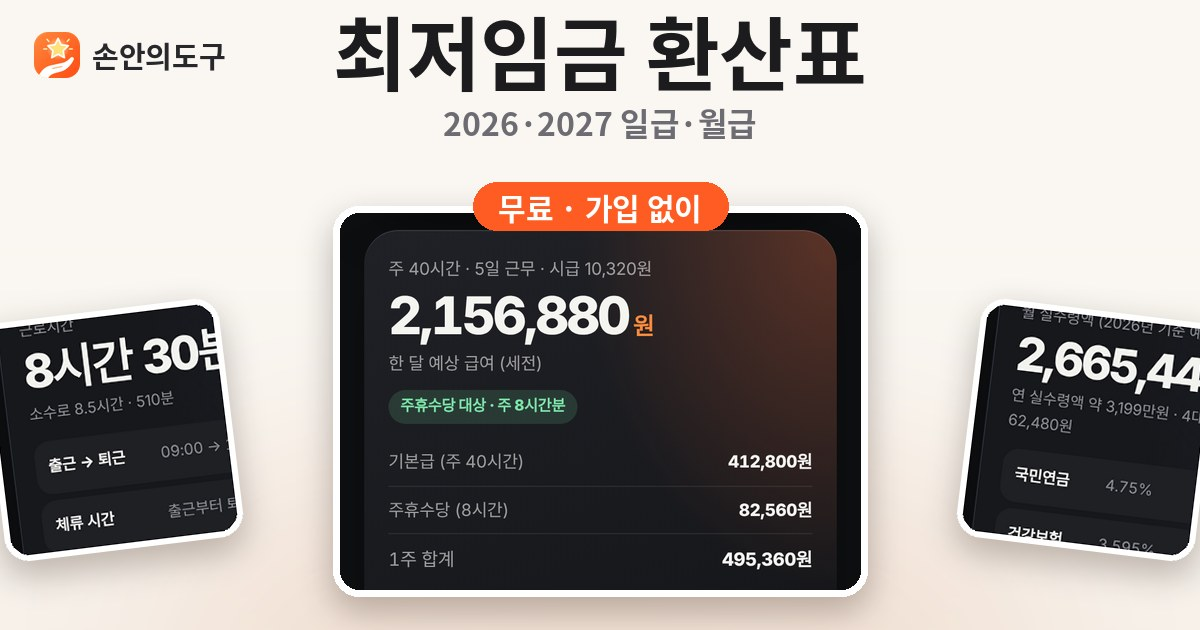
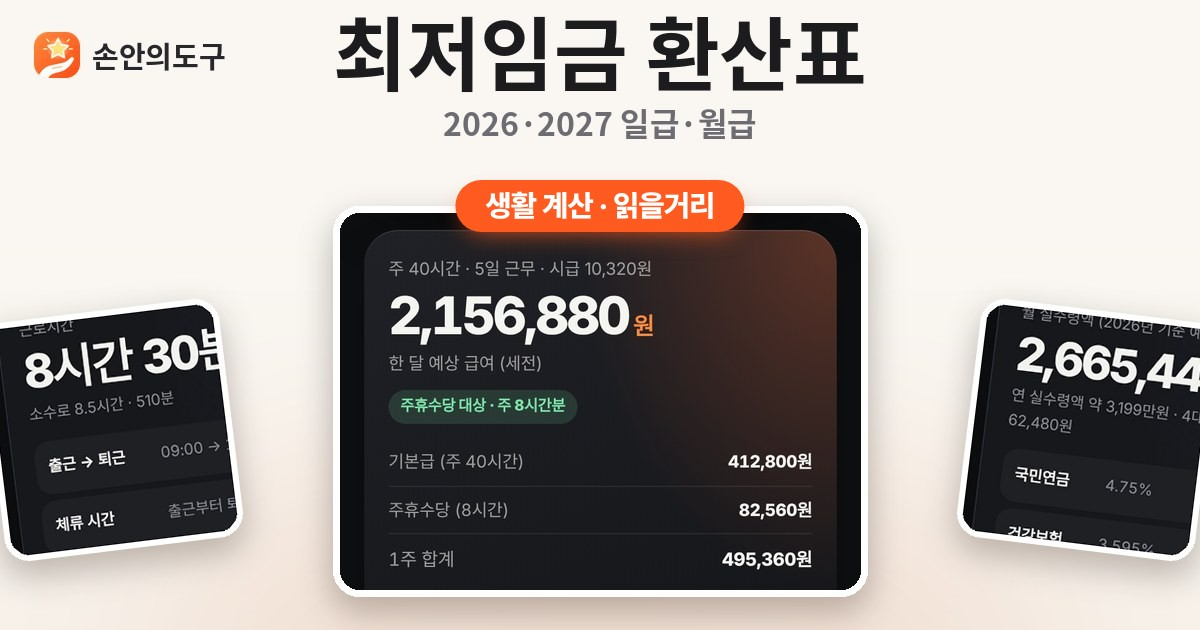
블로그 대표 이미지 배지를 '분류 · 읽을거리'로 교체
- 블로그 글 23편의 og 이미지에서 '무료 · 가입 없이' 배지를 글 분류 배지로 덮어 그림
  (생활 계산·알바 상식·모임 놀이·생활 도구·세금 상식·전통 놀이)
- 각 글의 og:image, JSON-LD image의 ?v=를 20261117로 올림
- .github/OG_GUIDE.md에 og 이미지 규칙(도구/블로그 배지 구분 포함) 기록

Claude-Session: https://claude.ai/code/session_014M4UVE4QdxrQAqy8tYAeAT

Changed region(s): [[0.37, 0.2714, 0.6475, 0.3921]]

diff --git a/blog/minimum-wage-table/index.html b/blog/minimum-wage-table/index.html
@@ -15,7 +15,7 @@
 <meta name="theme-color" content="#F4F4F1">
 <meta property="og:type" content="article">
 <meta property="og:url" content="https://sonandogu.com/blog/minimum-wage-table/">
-<meta property="og:image" content="https://sonandogu.com/assets/og-minimum-wage-table-post.jpg?v=20261116">
+<meta property="og:image" content="https://sonandogu.com/assets/og-minimum-wage-table-post.jpg?v=20261117">
 <meta property="og:image:width" content="1200"><meta property="og:image:height" content="630">
 <meta property="og:image:alt" content="최저임금 하루치와 한 달치, 환산표로 한 번에">
 <meta name="twitter:card" content="summary_large_image">
@@ -27,7 +27,7 @@
 <link rel="canonical" href="https://sonandogu.com/blog/minimum-wage-table/">
 <link rel="preconnect" href="https://cdn.jsdelivr.net" crossorigin>
 <link rel="stylesheet" href="https://cdn.jsdelivr.net/gh/orioncactus/pretendard@v1.3.9/dist/web/variable/pretendardvariable-dynamic-subset.min.css">
-<script type="application/ld+json">{"@context": "https://schema.org", "@type": "Article", "headline": "최저임금 하루치와 한 달치, 환산표로 한 번에", "datePublished": "2026-11-09", "dateModified": "2026-11-16", "author": {"@type": "Organization", "name": "손안의도구"}, "publisher": {"@type": "Organization", "name": "손안의도구"}, "mainEntityOfPage": "https://sonandogu.com/blog/minimum-wage-table/", "image": "https://sonandogu.com/assets/og-minimum-wage-table-post.jpg?v=20261116"}</script>
+<script type="application/ld+json">{"@context": "https://schema.org", "@type": "Article", "headline": "최저임금 하루치와 한 달치, 환산표로 한 번에", "datePublished": "2026-11-09", "dateModified": "2026-11-16", "author": {"@type": "Organization", "name": "손안의도구"}, "publisher": {"@type": "Organization", "name": "손안의도구"}, "mainEntityOfPage": "https://sonandogu.com/blog/minimum-wage-table/", "image": "https://sonandogu.com/assets/og-minimum-wage-table-post.jpg?v=20261117"}</script>
 <style>:root{
   --bg:#F4F4F1; --surface:#FFFFFF; --ink:#141518; --muted:#6B6D73; --faint:#A3A5AA;
   --line:rgba(20,21,24,.08); --field:#F4F4F1; --orange:#FF5A1F; --orange2:#FF8A3D;

diff --git a/blog/work-hours-calc/index.html b/blog/work-hours-calc/index.html
@@ -15,7 +15,7 @@
 <meta name="theme-color" content="#F4F4F1">
 <meta property="og:type" content="article">
 <meta property="og:url" content="https://sonandogu.com/blog/work-hours-calc/">
-<meta property="og:image" content="https://sonandogu.com/assets/og-work-hours-calc-post.jpg?v=20261116">
+<meta property="og:image" content="https://sonandogu.com/assets/og-work-hours-calc-post.jpg?v=20261117">
 <meta property="og:image:width" content="1200"><meta property="og:image:height" content="630">
 <meta property="og:image:alt" content="근무시간 계산, 휴게시간과 자정 넘김에서 틀려요">
 <meta name="twitter:card" content="summary_large_image">
@@ -27,7 +27,7 @@
 <link rel="canonical" href="https://sonandogu.com/blog/work-hours-calc/">
 <link rel="preconnect" href="https://cdn.jsdelivr.net" crossorigin>
 <link rel="stylesheet" href="https://cdn.jsdelivr.net/gh/orioncactus/pretendard@v1.3.9/dist/web/variable/pretendardvariable-dynamic-subset.min.css">
-<script type="application/ld+json">{"@context": "https://schema.org", "@type": "Article", "headline": "근무시간 계산, 휴게시간과 자정 넘김에서 틀려요", "datePublished": "2026-11-12", "dateModified": "2026-11-16", "author": {"@type": "Organization", "name": "손안의도구"}, "publisher": {"@type": "Organization", "name": "손안의도구"}, "mainEntityOfPage": "https://sonandogu.com/blog/work-hours-calc/", "image": "https://sonandogu.com/assets/og-work-hours-calc-post.jpg?v=20261116"}</script>
+<script type="application/ld+json">{"@context": "https://schema.org", "@type": "Article", "headline": "근무시간 계산, 휴게시간과 자정 넘김에서 틀려요", "datePublished": "2026-11-12", "dateModified": "2026-11-16", "author": {"@type": "Organization", "name": "손안의도구"}, "publisher": {"@type": "Organization", "name": "손안의도구"}, "mainEntityOfPage": "https://sonandogu.com/blog/work-hours-calc/", "image": "https://sonandogu.com/assets/og-work-hours-calc-post.jpg?v=20261117"}</script>
 <style>:root{
   --bg:#F4F4F1; --surface:#FFFFFF; --ink:#141518; --muted:#6B6D73; --faint:#A3A5AA;
   --line:rgba(20,21,24,.08); --field:#F4F4F1; --orange:#FF5A1F; --orange2:#FF8A3D;

diff --git a/blog/severance-pay/index.html b/blog/severance-pay/index.html
@@ -15,7 +15,7 @@
 <meta name="theme-color" content="#F4F4F1">
 <meta property="og:type" content="article">
 <meta property="og:url" content="https://sonandogu.com/blog/severance-pay/">
-<meta property="og:image" content="https://sonandogu.com/assets/og-severance-pay-post.jpg?v=20261116">
+<meta property="og:image" content="https://sonandogu.com/assets/og-severance-pay-post.jpg?v=20261117">
 <meta property="og:image:width" content="1200"><meta property="og:image:height" content="630">
 <meta property="og:image:alt" content="월급 300만 원으로 3년 일하면 퇴직금은 얼마일까">
 <meta name="twitter:card" content="summary_large_image">
@@ -27,7 +27,7 @@
 <link rel="canonical" href="https://sonandogu.com/blog/severance-pay/">
 <link rel="preconnect" href="https://cdn.jsdelivr.net" crossorigin>
 <link rel="stylesheet" href="https://cdn.jsdelivr.net/gh/orioncactus/pretendard@v1.3.9/dist/web/variable/pretendardvariable-dynamic-subset.min.css">
-<script type="application/ld+json">{"@context": "https://schema.org", "@type": "Article", "headline": "월급 300만 원으로 3년 일하면 퇴직금은 얼마일까", "datePublished": "2026-11-08", "dateModified": "2026-11-16", "author": {"@type": "Organization", "name": "손안의도구"}, "publisher": {"@type": "Organization", "name": "손안의도구"}, "mainEntityOfPage": "https://sonandogu.com/blog/severance-pay/", "image": "https://sonandogu.com/assets/og-severance-pay-post.jpg?v=20261116"}</script>
+<script type="application/ld+json">{"@context": "https://schema.org", "@type": "Article", "headline": "월급 300만 원으로 3년 일하면 퇴직금은 얼마일까", "datePublished": "2026-11-08", "dateModified": "2026-11-16", "author": {"@type": "Organization", "name": "손안의도구"}, "publisher": {"@type": "Organization", "name": "손안의도구"}, "mainEntityOfPage": "https://sonandogu.com/blog/severance-pay/", "image": "https://sonandogu.com/assets/og-severance-pay-post.jpg?v=20261117"}</script>
 <style>:root{
   --bg:#F4F4F1; --surface:#FFFFFF; --ink:#141518; --muted:#6B6D73; --faint:#A3A5AA;
   --line:rgba(20,21,24,.08); --field:#F4F4F1; --orange:#FF5A1F; --orange2:#FF8A3D;

diff --git a/blog/resume-char-count/index.html b/blog/resume-char-count/index.html
@@ -15,7 +15,7 @@
 <meta name="theme-color" content="#F4F4F1">
 <meta property="og:type" content="article">
 <meta property="og:url" content="https://sonandogu.com/blog/resume-char-count/">
-<meta property="og:image" content="https://sonandogu.com/assets/og-resume-char-count-post.jpg?v=20261116">
+<meta property="og:image" content="https://sonandogu.com/assets/og-resume-char-count-post.jpg?v=20261117">
 <meta property="og:image:width" content="1200"><meta property="og:image:height" content="630">
 <meta property="og:image:alt" content="자소서 글자수, 입력창에서만 넘친 이유">
 <meta name="twitter:card" content="summary_large_image">
@@ -27,7 +27,7 @@
 <link rel="canonical" href="https://sonandogu.com/blog/resume-char-count/">
 <link rel="preconnect" href="https://cdn.jsdelivr.net" crossorigin>
 <link rel="stylesheet" href="https://cdn.jsdelivr.net/gh/orioncactus/pretendard@v1.3.9/dist/web/variable/pretendardvariable-dynamic-subset.min.css">
-<script type="application/ld+json">{"@context": "https://schema.org", "@type": "Article", "headline": "자소서 글자수, 입력창에서만 넘친 이유", "datePublished": "2026-11-08", "dateModified": "2026-11-16", "author": {"@type": "Organization", "name": "손안의도구"}, "publisher": {"@type": "Organization", "name": "손안의도구"}, "mainEntityOfPage": "https://sonandogu.com/blog/resume-char-count/", "image": "https://sonandogu.com/assets/og-resume-char-count-post.jpg?v=20261116"}</script>
+<script type="application/ld+json">{"@context": "https://schema.org", "@type": "Article", "headline": "자소서 글자수, 입력창에서만 넘친 이유", "datePublished": "2026-11-08", "dateModified": "2026-11-16", "author": {"@type": "Organization", "name": "손안의도구"}, "publisher": {"@type": "Organization", "name": "손안의도구"}, "mainEntityOfPage": "https://sonandogu.com/blog/resume-char-count/", "image": "https://sonandogu.com/assets/og-resume-char-count-post.jpg?v=20261117"}</script>
 <style>:root{
   --bg:#F4F4F1; --surface:#FFFFFF; --ink:#141518; --muted:#6B6D73; --faint:#A3A5AA;
   --line:rgba(20,21,24,.08); --field:#F4F4F1; --orange:#FF5A1F; --orange2:#FF8A3D;

diff --git a/blog/manito-rules/index.html b/blog/manito-rules/index.html
@@ -15,7 +15,7 @@
 <meta name="theme-color" content="#F4F4F1">
 <meta property="og:type" content="article">
 <meta property="og:url" content="https://sonandogu.com/blog/manito-rules/">
-<meta property="og:image" content="https://sonandogu.com/assets/og-manito-rules-post.jpg?v=20261116">
+<meta property="og:image" content="https://sonandogu.com/assets/og-manito-rules-post.jpg?v=20261117">
 <meta property="og:image:width" content="1200"><meta property="og:image:height" content="630">
 <meta property="og:image:alt" content="마니또, 종이 제비로 뽑으면 왜 자꾸 다시 뽑을까">
 <meta name="twitter:card" content="summary_large_image">
@@ -27,7 +27,7 @@
 <link rel="canonical" href="https://sonandogu.com/blog/manito-rules/">
 <link rel="preconnect" href="https://cdn.jsdelivr.net" crossorigin>
 <link rel="stylesheet" href="https://cdn.jsdelivr.net/gh/orioncactus/pretendard@v1.3.9/dist/web/variable/pretendardvariable-dynamic-subset.min.css">
-<script type="application/ld+json">{"@context": "https://schema.org", "@type": "Article", "headline": "마니또, 종이 제비로 뽑으면 왜 자꾸 다시 뽑을까", "datePublished": "2026-11-09", "dateModified": "2026-11-09", "author": {"@type": "Organization", "name": "손안의도구"}, "publisher": {"@type": "Organization", "name": "손안의도구"}, "mainEntityOfPage": "https://sonandogu.com/blog/manito-rules/", "image": "https://sonandogu.com/assets/og-manito-rules-post.jpg?v=20261116"}</script>
+<script type="application/ld+json">{"@context": "https://schema.org", "@type": "Article", "headline": "마니또, 종이 제비로 뽑으면 왜 자꾸 다시 뽑을까", "datePublished": "2026-11-09", "dateModified": "2026-11-09", "author": {"@type": "Organization", "name": "손안의도구"}, "publisher": {"@type": "Organization", "name": "손안의도구"}, "mainEntityOfPage": "https://sonandogu.com/blog/manito-rules/", "image": "https://sonandogu.com/assets/og-manito-rules-post.jpg?v=20261117"}</script>
 <style>:root{
   --bg:#F4F4F1; --surface:#FFFFFF; --ink:#141518; --muted:#6B6D73; --faint:#A3A5AA;
   --line:rgba(20,21,24,.08); --field:#F4F4F1; --orange:#FF5A1F; --orange2:#FF8A3D;

diff --git a/blog/annual-leave/index.html b/blog/annual-leave/index.html
@@ -15,7 +15,7 @@
 <meta name="theme-color" content="#F4F4F1">
 <meta property="og:type" content="article">
 <meta property="og:url" content="https://sonandogu.com/blog/annual-leave/">
-<meta property="og:image" content="https://sonandogu.com/assets/og-annual-leave-post.jpg?v=20261116">
+<meta property="og:image" content="https://sonandogu.com/assets/og-annual-leave-post.jpg?v=20261117">
 <meta property="og:image:width" content="1200"><meta property="og:image:height" content="630">
 <meta property="og:image:alt" content="연차 15일은 언제 생길까, 월차 11일부터 25일까지">
 <meta name="twitter:card" content="summary_large_image">
@@ -27,7 +27,7 @@
 <link rel="canonical" href="https://sonandogu.com/blog/annual-leave/">
 <link rel="preconnect" href="https://cdn.jsdelivr.net" crossorigin>
 <link rel="stylesheet" href="https://cdn.jsdelivr.net/gh/orioncactus/pretendard@v1.3.9/dist/web/variable/pretendardvariable-dynamic-subset.min.css">
-<script type="application/ld+json">{"@context": "https://schema.org", "@type": "Article", "headline": "연차 15일은 언제 생길까, 월차 11일부터 25일까지", "datePublished": "2026-11-09", "dateModified": "2026-11-16", "author": {"@type": "Organization", "name": "손안의도구"}, "publisher": {"@type": "Organization", "name": "손안의도구"}, "mainEntityOfPage": "https://sonandogu.com/blog/annual-leave/", "image": "https://sonandogu.com/assets/og-annual-leave-post.jpg?v=20261116"}</script>
+<script type="application/ld+json">{"@context": "https://schema.org", "@type": "Article", "headline": "연차 15일은 언제 생길까, 월차 11일부터 25일까지", "datePublished": "2026-11-09", "dateModified": "2026-11-16", "author": {"@type": "Organization", "name": "손안의도구"}, "publisher": {"@type": "Organization", "name": "손안의도구"}, "mainEntityOfPage": "https://sonandogu.com/blog/annual-leave/", "image": "https://sonandogu.com/assets/og-annual-leave-post.jpg?v=20261117"}</script>
 <style>:root{
   --bg:#F4F4F1; --surface:#FFFFFF; --ink:#141518; --muted:#6B6D73; --faint:#A3A5AA;
   --line:rgba(20,21,24,.08); --field:#F4F4F1; --orange:#FF5A1F; --orange2:#FF8A3D;

diff --git a/blog/salary-take-home/index.html b/blog/salary-take-home/index.html
@@ -15,7 +15,7 @@
 <meta name="theme-color" content="#F4F4F1">
 <meta property="og:type" content="article">
 <meta property="og:url" content="https://sonandogu.com/blog/salary-take-home/">
-<meta property="og:image" content="https://sonandogu.com/assets/og-salary-take-home-post.jpg?v=20261116">
+<meta property="og:image" content="https://sonandogu.com/assets/og-salary-take-home-post.jpg?v=20261117">
 <meta property="og:image:width" content="1200"><meta property="og:image:height" content="630">
 <meta property="og:image:alt" content="연봉 3,600만 원, 통장에는 얼마가 찍힐까">
 <meta name="twitter:card" content="summary_large_image">
@@ -27,7 +27,7 @@
 <link rel="canonical" href="https://sonandogu.com/blog/salary-take-home/">
 <link rel="preconnect" href="https://cdn.jsdelivr.net" crossorigin>
 <link rel="stylesheet" href="https://cdn.jsdelivr.net/gh/orioncactus/pretendard@v1.3.9/dist/web/variable/pretendardvariable-dynamic-subset.min.css">
-<script type="application/ld+json">{"@context": "https://schema.org", "@type": "Article", "headline": "연봉 3,600만 원, 통장에는 얼마가 찍힐까", "datePublished": "2026-11-08", "dateModified": "2026-11-16", "author": {"@type": "Organization", "name": "손안의도구"}, "publisher": {"@type": "Organization", "name": "손안의도구"}, "mainEntityOfPage": "https://sonandogu.com/blog/salary-take-home/", "image": "https://sonandogu.com/assets/og-salary-take-home-post.jpg?v=20261116"}</script>
+<script type="application/ld+json">{"@context": "https://schema.org", "@type": "Article", "headline": "연봉 3,600만 원, 통장에는 얼마가 찍힐까", "datePublished": "2026-11-08", "dateModified": "2026-11-16", "author": {"@type": "Organization", "name": "손안의도구"}, "publisher": {"@type": "Organization", "name": "손안의도구"}, "mainEntityOfPage": "https://sonandogu.com/blog/salary-take-home/", "image": "https://sonandogu.com/assets/og-salary-take-home-post.jpg?v=20261117"}</script>
 <style>:root{
   --bg:#F4F4F1; --surface:#FFFFFF; --ink:#141518; --muted:#6B6D73; --faint:#A3A5AA;
   --line:rgba(20,21,24,.08); --field:#F4F4F1; --orange:#FF5A1F; --orange2:#FF8A3D;

diff --git a/blog/under-15-hours/index.html b/blog/under-15-hours/index.html
@@ -15,7 +15,7 @@
 <meta name="theme-color" content="#F4F4F1">
 <meta property="og:type" content="article">
 <meta property="og:url" content="https://sonandogu.com/blog/under-15-hours/">
-<meta property="og:image" content="https://sonandogu.com/assets/og-under-15-hours-post.jpg?v=20261116">
+<meta property="og:image" content="https://sonandogu.com/assets/og-under-15-hours-post.jpg?v=20261117">
 <meta property="og:image:width" content="1200"><meta property="og:image:height" content="630">
 <meta property="og:image:alt" content="알바 퇴직금과 연차, 주 15시간이 가르는 것">
 <meta name="twitter:card" content="summary_large_image">
@@ -27,7 +27,7 @@
 <link rel="canonical" href="https://sonandogu.com/blog/under-15-hours/">
 <link rel="preconnect" href="https://cdn.jsdelivr.net" crossorigin>
 <link rel="stylesheet" href="https://cdn.jsdelivr.net/gh/orioncactus/pretendard@v1.3.9/dist/web/variable/pretendardvariable-dynamic-subset.min.css">
-<script type="application/ld+json">{"@context": "https://schema.org", "@type": "Article", "headline": "알바 퇴직금과 연차, 주 15시간이 가르는 것", "datePublished": "2026-11-09", "dateModified": "2026-11-16", "author": {"@type": "Organization", "name": "손안의도구"}, "publisher": {"@type": "Organization", "name": "손안의도구"}, "mainEntityOfPage": "https://sonandogu.com/blog/under-15-hours/", "image": "https://sonandogu.com/assets/og-under-15-hours-post.jpg?v=20261116"}</script>
+<script type="application/ld+json">{"@context": "https://schema.org", "@type": "Article", "headline": "알바 퇴직금과 연차, 주 15시간이 가르는 것", "datePublished": "2026-11-09", "dateModified": "2026-11-16", "author": {"@type": "Organization", "name": "손안의도구"}, "publisher": {"@type": "Organization", "name": "손안의도구"}, "mainEntityOfPage": "https://sonandogu.com/blog/under-15-hours/", "image": "https://sonandogu.com/assets/og-under-15-hours-post.jpg?v=20261117"}</script>
 <style>:root{
   --bg:#F4F4F1; --surface:#FFFFFF; --ink:#141518; --muted:#6B6D73; --faint:#A3A5AA;
   --line:rgba(20,21,24,.08); --field:#F4F4F1; --orange:#FF5A1F; --orange2:#FF8A3D;

diff --git a/blog/team-name-ideas/index.html b/blog/team-name-ideas/index.html
@@ -15,7 +15,7 @@
 <meta name="theme-color" content="#F4F4F1">
 <meta property="og:type" content="article">
 <meta property="og:url" content="https://sonandogu.com/blog/team-name-ideas/">
-<meta property="og:image" content="https://sonandogu.com/assets/og-team-name-ideas-post.jpg?v=20261116">
+<meta property="og:image" content="https://sonandogu.com/assets/og-team-name-ideas-post.jpg?v=20261117">
 <meta property="og:image:width" content="1200"><meta property="og:image:height" content="630">
 <meta property="og:image:alt" content="조 이름, 뭐로 할지 모르겠다면 공식부터">
 <meta name="twitter:card" content="summary_large_image">
@@ -27,7 +27,7 @@
 <link rel="canonical" href="https://sonandogu.com/blog/team-name-ideas/">
 <link rel="preconnect" href="https://cdn.jsdelivr.net" crossorigin>
 <link rel="stylesheet" href="https://cdn.jsdelivr.net/gh/orioncactus/pretendard@v1.3.9/dist/web/variable/pretendardvariable-dynamic-subset.min.css">
-<script type="application/ld+json">{"@context": "https://schema.org", "@type": "Article", "headline": "조 이름, 뭐로 할지 모르겠다면 공식부터", "datePublished": "2026-11-09", "dateModified": "2026-11-16", "author": {"@type": "Organization", "name": "손안의도구"}, "publisher": {"@type": "Organization", "name": "손안의도구"}, "mainEntityOfPage": "https://sonandogu.com/blog/team-name-ideas/", "image": "https://sonandogu.com/assets/og-team-name-ideas-post.jpg?v=20261116"}</script>
+<script type="application/ld+json">{"@context": "https://schema.org", "@type": "Article", "headline": "조 이름, 뭐로 할지 모르겠다면 공식부터", "datePublished": "2026-11-09", "dateModified": "2026-11-16", "author": {"@type": "Organization", "name": "손안의도구"}, "publisher": {"@type": "Organization", "name": "손안의도구"}, "mainEntityOfPage": "https://sonandogu.com/blog/team-name-ideas/", "image": "https://sonandogu.com/assets/og-team-name-ideas-post.jpg?v=20261117"}</script>
 <style>:root{
   --bg:#F4F4F1; --surface:#FFFFFF; --ink:#141518; --muted:#6B6D73; --faint:#A3A5AA;
   --line:rgba(20,21,24,.08); --field:#F4F4F1; --orange:#FF5A1F; --orange2:#FF8A3D;

diff --git a/blog/changes-2027/index.html b/blog/changes-2027/index.html
@@ -15,7 +15,7 @@
 <meta name="theme-color" content="#F4F4F1">
 <meta property="og:type" content="article">
 <meta property="og:url" content="https://sonandogu.com/blog/changes-2027/">
-<meta property="og:image" content="https://sonandogu.com/assets/og-changes-2027-post.jpg?v=20261116">
+<meta property="og:image" content="https://sonandogu.com/assets/og-changes-2027-post.jpg?v=20261117">
 <meta property="og:image:width" content="1200"><meta property="og:image:height" content="630">
 <meta property="og:image:alt" content="2027년 달라지는 것, 월급과 달력부터 바뀌어요">
 <meta name="twitter:card" content="summary_large_image">
@@ -27,7 +27,7 @@
 <link rel="canonical" href="https://sonandogu.com/blog/changes-2027/">
 <link rel="preconnect" href="https://cdn.jsdelivr.net" crossorigin>
 <link rel="stylesheet" href="https://cdn.jsdelivr.net/gh/orioncactus/pretendard@v1.3.9/dist/web/variable/pretendardvariable-dynamic-subset.min.css">
-<script type="application/ld+json">{"@context": "https://schema.org", "@type": "Article", "headline": "2027년 달라지는 것, 월급과 달력부터 바뀌어요", "datePublished": "2026-11-16", "dateModified": "2026-11-16", "author": {"@type": "Organization", "name": "손안의도구"}, "publisher": {"@type": "Organization", "name": "손안의도구"}, "mainEntityOfPage": "https://sonandogu.com/blog/changes-2027/", "image": "https://sonandogu.com/assets/og-changes-2027-post.jpg?v=20261116"}</script>
+<script type="application/ld+json">{"@context": "https://schema.org", "@type": "Article", "headline": "2027년 달라지는 것, 월급과 달력부터 바뀌어요", "datePublished": "2026-11-16", "dateModified": "2026-11-16", "author": {"@type": "Organization", "name": "손안의도구"}, "publisher": {"@type": "Organization", "name": "손안의도구"}, "mainEntityOfPage": "https://sonandogu.com/blog/changes-2027/", "image": "https://sonandogu.com/assets/og-changes-2027-post.jpg?v=20261117"}</script>
 <style>:root{
   --bg:#F4F4F1; --surface:#FFFFFF; --ink:#141518; --muted:#6B6D73; --faint:#A3A5AA;
   --line:rgba(20,21,24,.08); --field:#F4F4F1; --orange:#FF5A1F; --orange2:#FF8A3D;

diff --git a/blog/yut-rules/index.html b/blog/yut-rules/index.html
@@ -15,7 +15,7 @@
 <meta name="theme-color" content="#F4F4F1">
 <meta property="og:type" content="article">
 <meta property="og:url" content="https://sonandogu.com/blog/yut-rules/">
-<meta property="og:image" content="https://sonandogu.com/assets/og-yut-post.jpg?v=20261116">
+<meta property="og:image" content="https://sonandogu.com/assets/og-yut-post.jpg?v=20261117">
 <meta property="og:image:width" content="1200"><meta property="og:image:height" content="630">
 <meta property="og:image:alt" content="윷놀이 하다 싸우는 이유, 집집마다 규칙이 달라서예요">
 <meta name="twitter:card" content="summary_large_image">
@@ -27,7 +27,7 @@
 <link rel="canonical" href="https://sonandogu.com/blog/yut-rules/">
 <link rel="preconnect" href="https://cdn.jsdelivr.net" crossorigin>
 <link rel="stylesheet" href="https://cdn.jsdelivr.net/gh/orioncactus/pretendard@v1.3.9/dist/web/variable/pretendardvariable-dynamic-subset.min.css">
-<script type="application/ld+json">{"@context": "https://schema.org", "@type": "Article", "headline": "윷놀이 하다 싸우는 이유, 집집마다 규칙이 달라서예요", "datePublished": "2026-11-02", "author": {"@type": "Organization", "name": "손안의도구"}, "publisher": {"@type": "Organization", "name": "손안의도구"}, "mainEntityOfPage": "https://sonandogu.com/blog/yut-rules/", "image": "https://sonandogu.com/assets/og-yut-post.jpg?v=20261116", "dateModified": "2026-11-16"}</script>
+<script type="application/ld+json">{"@context": "https://schema.org", "@type": "Article", "headline": "윷놀이 하다 싸우는 이유, 집집마다 규칙이 달라서예요", "datePublished": "2026-11-02", "author": {"@type": "Organization", "name": "손안의도구"}, "publisher": {"@type": "Organization", "name": "손안의도구"}, "mainEntityOfPage": "https://sonandogu.com/blog/yut-rules/", "image": "https://sonandogu.com/assets/og-yut-post.jpg?v=20261117", "dateModified": "2026-11-16"}</script>
 <style>:root{
   --bg:#F4F4F1; --surface:#FFFFFF; --ink:#141518; --muted:#6B6D73; --faint:#A3A5AA;
   --line:rgba(20,21,24,.08); --field:#F4F4F1; --orange:#FF5A1F; --orange2:#FF8A3D;

diff --git a/blog/holiday-2027/index.html b/blog/holiday-2027/index.html
@@ -15,7 +15,7 @@
 <meta name="theme-color" content="#F4F4F1">
 <meta property="og:type" content="article">
 <meta property="og:url" content="https://sonandogu.com/blog/holiday-2027/">
-<meta property="og:image" content="https://sonandogu.com/assets/og-holiday-2027-post.jpg?v=20261116">
+<meta property="og:image" content="https://sonandogu.com/assets/og-holiday-2027-post.jpg?v=20261117">
 <meta property="og:image:width" content="1200"><meta property="og:image:height" content="630">
 <meta property="og:image:alt" content="2027년 연휴 총정리, 연차 3일로 9일 쉬는 법">
 <meta name="twitter:card" content="summary_large_image">
@@ -27,7 +27,7 @@
 <link rel="canonical" href="https://sonandogu.com/blog/holiday-2027/">
 <link rel="preconnect" href="https://cdn.jsdelivr.net" crossorigin>
 <link rel="stylesheet" href="https://cdn.jsdelivr.net/gh/orioncactus/pretendard@v1.3.9/dist/web/variable/pretendardvariable-dynamic-subset.min.css">
-<script type="application/ld+json">{"@context": "https://schema.org", "@type": "Article", "headline": "2027년 연휴 총정리, 연차 3일로 9일 쉬는 법", "datePublished": "2026-11-12", "dateModified": "2026-11-12", "author": {"@type": "Organization", "name": "손안의도구"}, "publisher": {"@type": "Organization", "name": "손안의도구"}, "mainEntityOfPage": "https://sonandogu.com/blog/holiday-2027/", "image": "https://sonandogu.com/assets/og-holiday-2027-post.jpg?v=20261116"}</script>
+<script type="application/ld+json">{"@context": "https://schema.org", "@type": "Article", "headline": "2027년 연휴 총정리, 연차 3일로 9일 쉬는 법", "datePublished": "2026-11-12", "dateModified": "2026-11-12", "author": {"@type": "Organization", "name": "손안의도구"}, "publisher": {"@type": "Organization", "name": "손안의도구"}, "mainEntityOfPage": "https://sonandogu.com/blog/holiday-2027/", "image": "https://sonandogu.com/assets/og-holiday-2027-post.jpg?v=20261117"}</script>
 <style>:root{
   --bg:#F4F4F1; --surface:#FFFFFF; --ink:#141518; --muted:#6B6D73; --faint:#A3A5AA;
   --line:rgba(20,21,24,.08); --field:#F4F4F1; --orange:#FF5A1F; --orange2:#FF8A3D;
